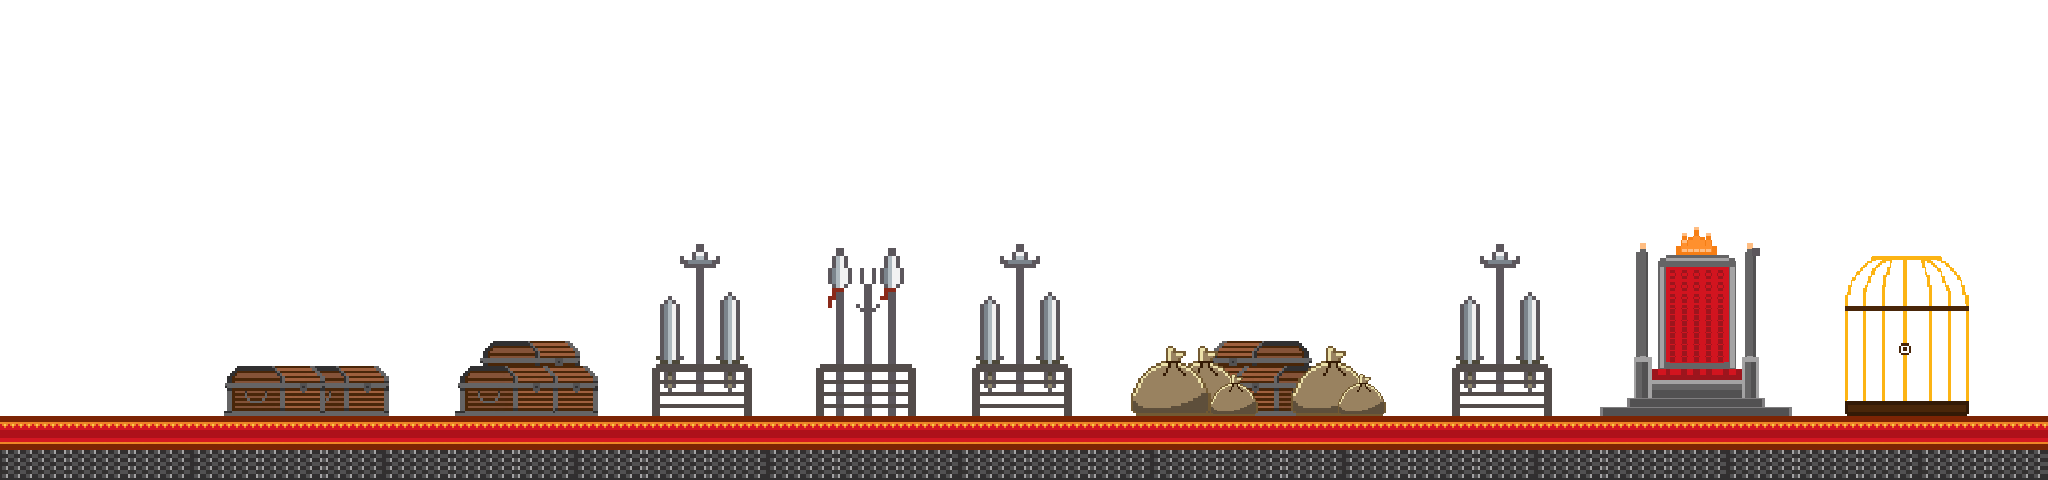
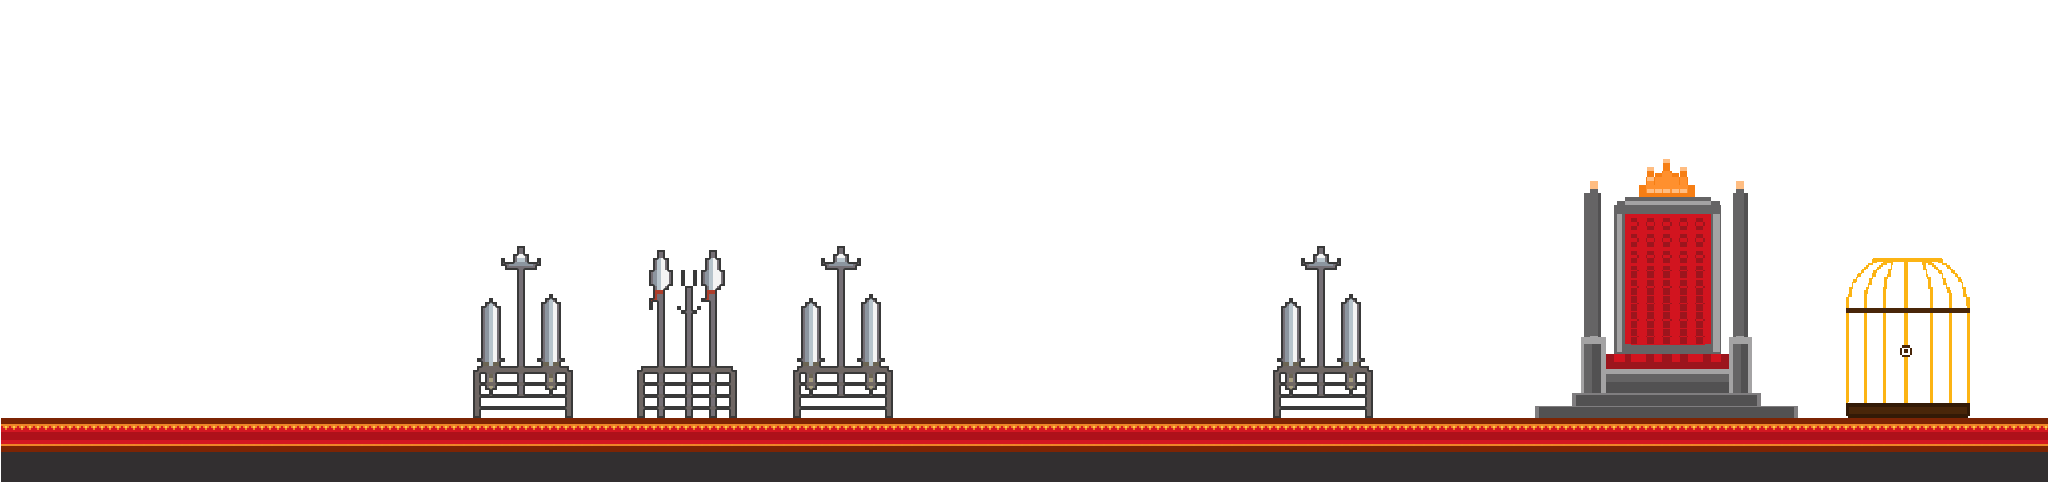
update

diff --git a/Castle_Knight/GameplayScreen3.cs b/Castle_Knight/GameplayScreen3.cs
@@ -107,6 +107,7 @@ namespace Castle_Knight
 
         // ฉาก
         private AnimatedTexture Touch;
+        private AnimatedTexture Fire;
 
         bool batMove = false;
         bool batMove2 = false;
@@ -176,7 +177,7 @@ namespace Castle_Knight
 
         // Bat Pos
         private Vector2 Bat_Pos = new Vector2(450, 80);
-        private Vector2 Bat2_Pos = new Vector2(1450, 80);
+        private Vector2 Bat2_Pos = new Vector2(850, 80);
 
         // Special atk
         private Vector2 special_Pos = new Vector2(500, 600);
@@ -244,6 +245,7 @@ namespace Castle_Knight
             idleSheid = new AnimatedTexture(Vector2.Zero, Rotation, Scale, Depth);
 
             Touch = new AnimatedTexture(Vector2.Zero, Rotation, Scale, Depth);
+            Fire = new AnimatedTexture(Vector2.Zero, Rotation, Scale, Depth);
             effect1 = new AnimatedTexture(Vector2.Zero, Rotation, Scale, Depth);
             Bat = new AnimatedTexture(Vector2.Zero, Rotation, Scale, Depth);
 
@@ -318,6 +320,7 @@ namespace Castle_Knight
             Player.walkAni.Pause();
 
             Touch.Load(game.Content, "Touch", 9, 1, 5);
+            Fire.Load(game.Content, "Fire", 3, 1, 6);
 
             #endregion
 
@@ -781,13 +784,13 @@ namespace Castle_Knight
                         // Enemy 3
                         if (enemyBoss.atk == true && !enemyBoss.died && enemyGold.died && enemyArcherR.died)
                         {
-                            if (sheidCount % 5 == 0)
+                            if (sheidCount % 4 == 0)
                             {
                                 enemyBoss.charBlock = new Rectangle((int)enemyBoss.Position.X + 127, (int)enemyBoss.Position.Y, 281, 256);
                                 enemyBoss.Position.X += 7;
                                 Sheid = true;
                             }
-                            else if (sheidCount % 5 != 0)
+                            else if (sheidCount % 4 != 0)
                             {
                                 enemyBoss.charBlock = new Rectangle((int)enemyBoss.Position.X + 18, (int)enemyBoss.Position.Y, 281, 256);
                                 if (Player.charBlock.Intersects(enemyBoss.charBlock) && enemyBoss.died == false)
@@ -1135,6 +1138,7 @@ namespace Castle_Knight
                                 batMove2 = false;
                             }
                         }
+
                         #endregion
 
                         #region Visible When GetHit
@@ -1161,7 +1165,7 @@ namespace Castle_Knight
                         }
                         #endregion
 
-                        if (Player.Position.X >= 1956)
+                        if (Player.Position.X >= 1900)
                         {
                             Player.Position.X -= 2;
                         }
@@ -1248,10 +1252,15 @@ namespace Castle_Knight
                 theBatch.Begin(SpriteSortMode.Deferred, BlendState.AlphaBlend, null, null, null, null, camera.ViewMatrix);
                 theBatch.Draw(BG1_1, new Vector2(0 - camera.ViewMatrix.Translation.X * 0.65f, 0), Color.White);
                 theBatch.Draw(BG1_2, new Vector2(0, 0), Color.White);
-                Touch.DrawFrame(theBatch, new Vector2(550 - camera.ViewMatrix.Translation.X * 0.65f, 100));
-                Touch.DrawFrame(theBatch, new Vector2(1550 - camera.ViewMatrix.Translation.X * 0.65f, 100));
+                Touch.DrawFrame(theBatch, new Vector2(65 - camera.ViewMatrix.Translation.X * 0.65f, 100));
+                Touch.DrawFrame(theBatch, new Vector2(385 - camera.ViewMatrix.Translation.X * 0.65f, 100));
+                Touch.DrawFrame(theBatch, new Vector2(705- camera.ViewMatrix.Translation.X * 0.65f, 100));
+                Touch.DrawFrame(theBatch, new Vector2(1025- camera.ViewMatrix.Translation.X * 0.65f, 100));
                 Bat.DrawFrame(theBatch, new Vector2(Bat_Pos.X - camera.ViewMatrix.Translation.X * 0.65f, Bat_Pos.Y - camera.ViewMatrix.Translation.Y));
                 Bat.DrawFrame(theBatch, new Vector2(Bat2_Pos.X - camera.ViewMatrix.Translation.X * 0.65f, Bat2_Pos.Y - camera.ViewMatrix.Translation.Y));
+                Fire.DrawFrame(theBatch, new Vector2(1480, 228));
+                Fire.DrawFrame(theBatch, new Vector2(1730, 228));
+
 
                 // Potion
                 if (potion_Ena[0] == true && potion_Use[0] == false)
@@ -1452,13 +1461,13 @@ namespace Castle_Knight
                         if (Player.died) { idleSheid.Pause(0, 0); }
                         idleSheid.DrawFrame(theBatch, enemyBoss.Position);
                     }
-                    else if (enemyBoss.atk && sheidCount % 5 == 0)
+                    else if (enemyBoss.atk && sheidCount % 4 == 0)
                     {
                         if (gamePause) { walkSheid.Pause(); }
                         if (Player.died) { walkSheid.Pause(0, 0); }
                         walkSheid.DrawFrame(theBatch, enemyBoss.Position);
                     }
-                    else if (enemyBoss.atk && sheidCount % 5 != 0)
+                    else if (enemyBoss.atk && sheidCount % 4 != 0)
                     {
                         if (gamePause) { atkSheid.Pause(); }
                         if (Player.died && atkSheid.Frame >= 8)
@@ -1564,6 +1573,7 @@ namespace Castle_Knight
             buttonSelect.UpdateFrame(Elapsed);
             effect1.UpdateFrame(Elapsed);
             Bat.UpdateFrame(Elapsed);
+            Fire.UpdateFrame(Elapsed);
 
             loading.UpdateFrame(Elapsed);
         }
